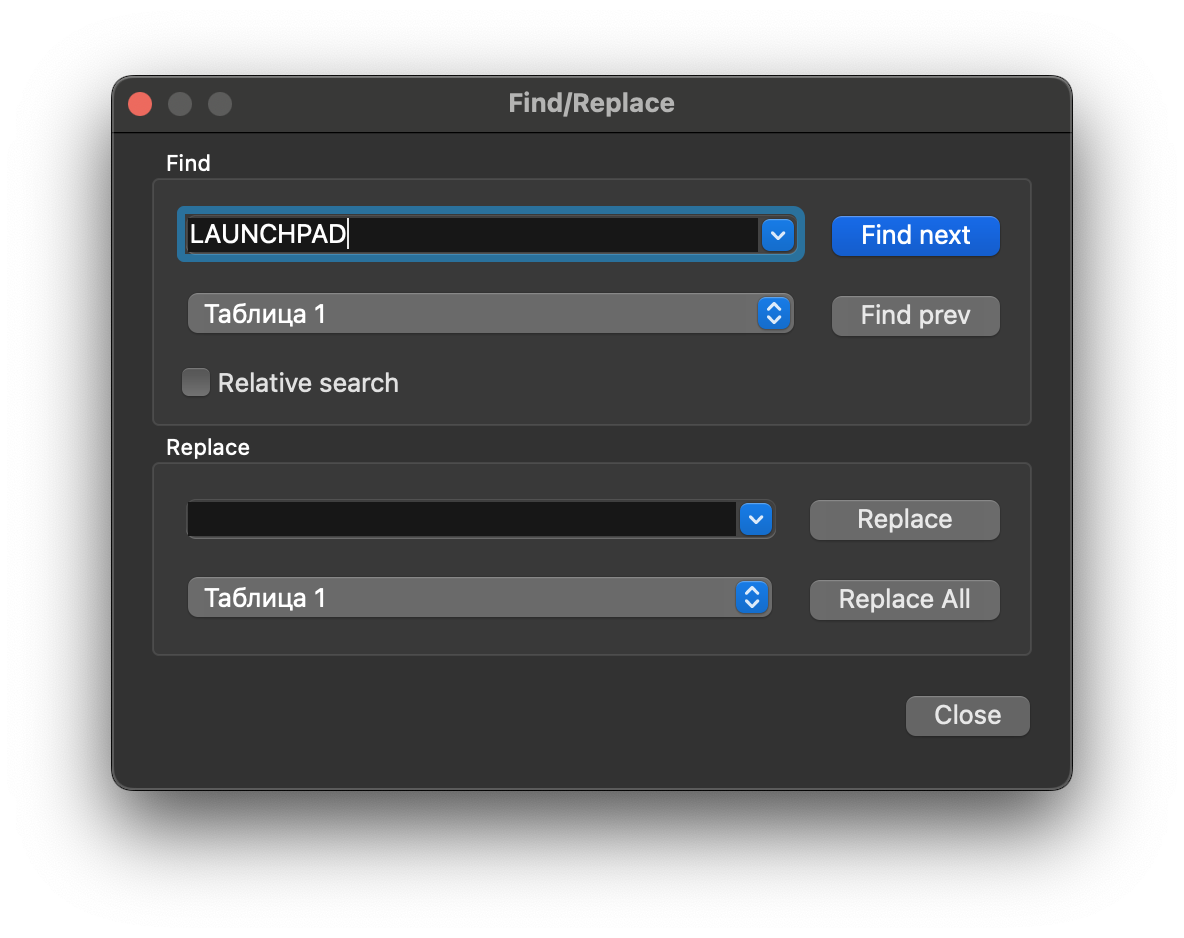
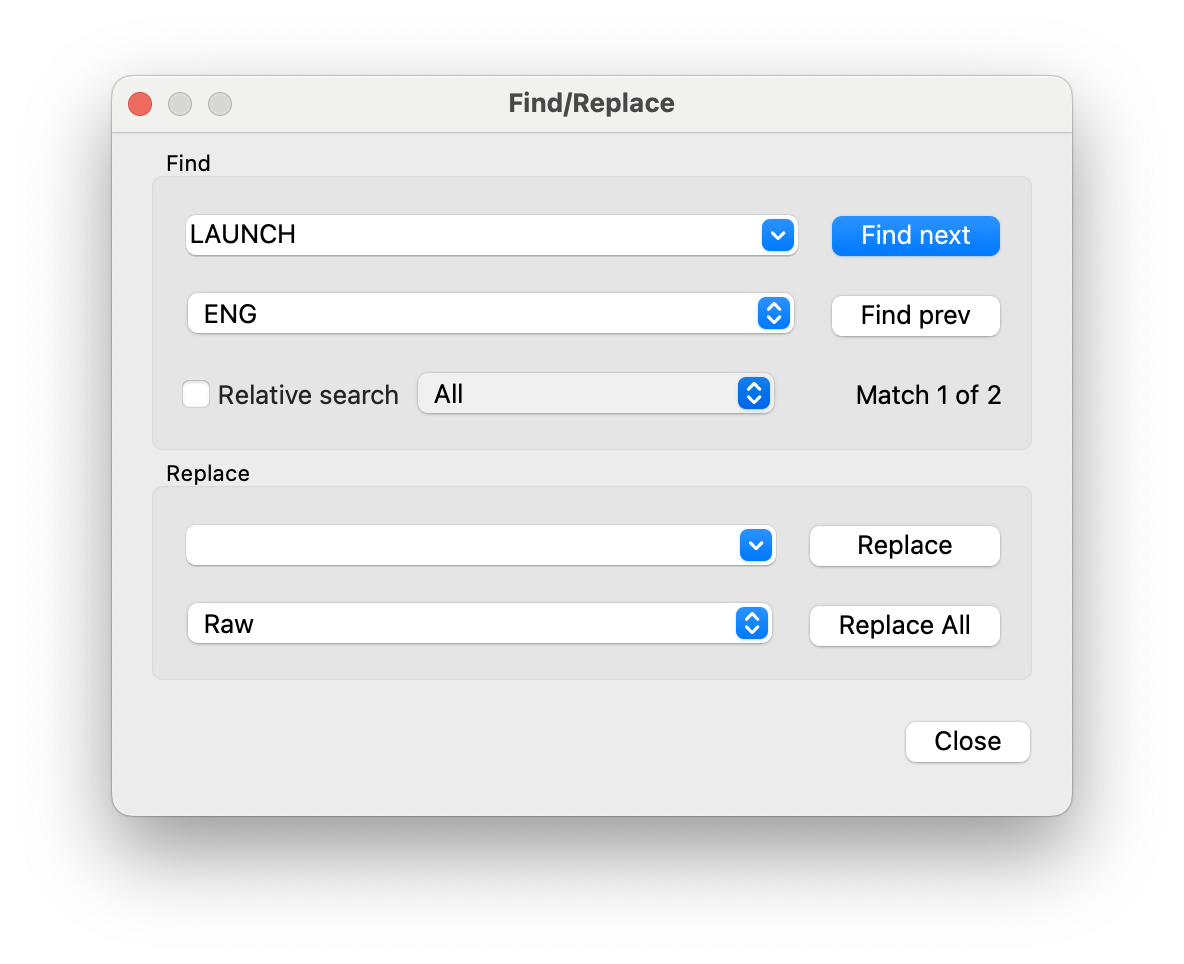
Readme updated

diff --git a/README.md b/README.md
@@ -1,20 +1,28 @@
-# RTHextion v2.1 - Retrogames Translation Hex Editor
+# RTHextion v3.0-alpha - Retrogames Translation Hex Editor
 
-A hex editor for retrogames translation and ROMHacking, a tribute to 00's Translhextion by Januschan. 
+A powerful hex-editor for retrogames translation and ROMHacking. 
+
 
 ## Features
 - Translation projects support:
   - Multiple tables support
-  - Pointers/data list
+  - Integrated disassembly with multiple CPU support
+  - Tile Graphics display and editing
+  - Audio display, playback and import/export
+  - Pointers list
   - Original data import/preservation for safe editing and comparison
   - IPS patch generation and import
   - Quick original content view
+  - Sections with separate view type and groupping
 - **Multi-tab workspace** with persistent session — open multiple files/projects simultaneously, all tabs and their state saved and restored on restart
 - Dock widgets for convenient workflow:
   - **Sections dock** — organize file structure with nested sections, auto-highlight current section by cursor position, full drag-drop support
   - **Pointers dock** — search data pointers and navigate to referenced locations with real-time preview
   - **Translation tables dock** — view, edit, and switch between translation tables without leaving the editor
   - **Changes dock** — track all modifications to the current file
+  - **Graphics dock** — preview and edit tile graphics with palette-aware rendering and direct drawing tools
+  - **Audio dock** — preview supported audio sections directly inside the app
+- **Integrated disassembly** with raw/code views, function detection, and section-aware code/data rendering
 - Translation tables support with built-in editor and semi-automatic translation tables generation
 - Advanced data pointers search and navigation
 - Script dump and import with insertion to offset and automatic pointers update; IPS patch generation and import
@@ -34,6 +42,15 @@ A hex editor for retrogames translation and ROMHacking, a tribute to 00's Transl
 
 #### Virtual formatting for structured data visualization and editing
 <img src="assets/sections.png" alt="Sections and virtual formatting" width="800" />
+
+#### Tile graphics display and editing
+<img src="assets/gfx.png" alt="General view" width="800" />
+
+#### Audio decoding with import/export support
+<img src="assets/audio.png" alt="General view" width="800" />
+
+#### Disassembly view with navigation and pointer detection
+<img src="assets/asm.png" alt="General view" width="800" />
 
 #### Pointers search and navigation with real-time preview and highlighting
 <img src="assets/general_view_2.png" alt="General view" width="800" />
